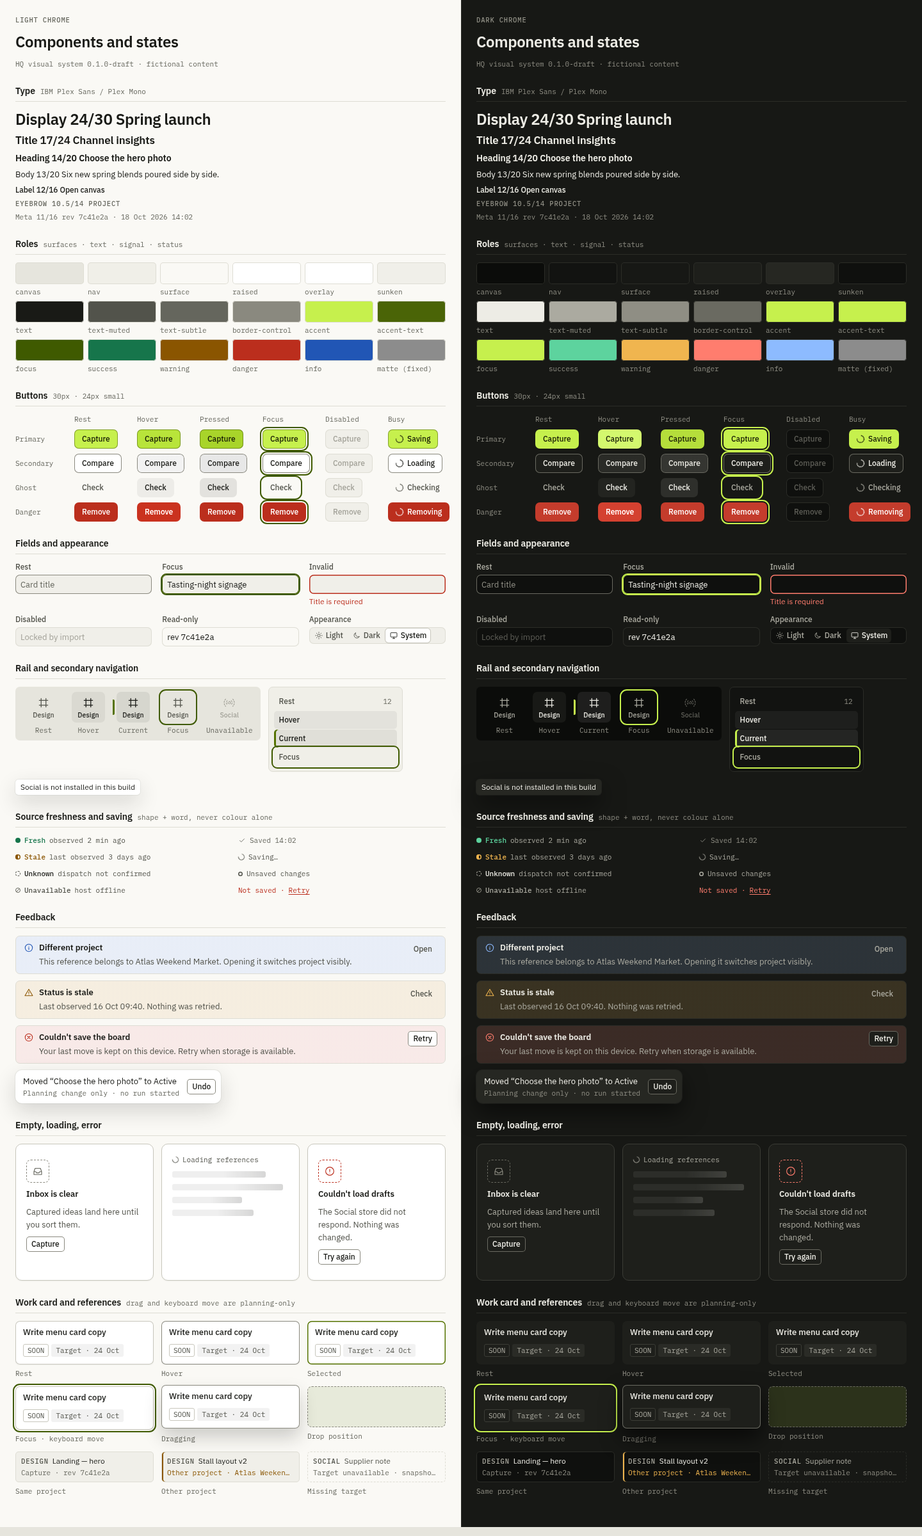
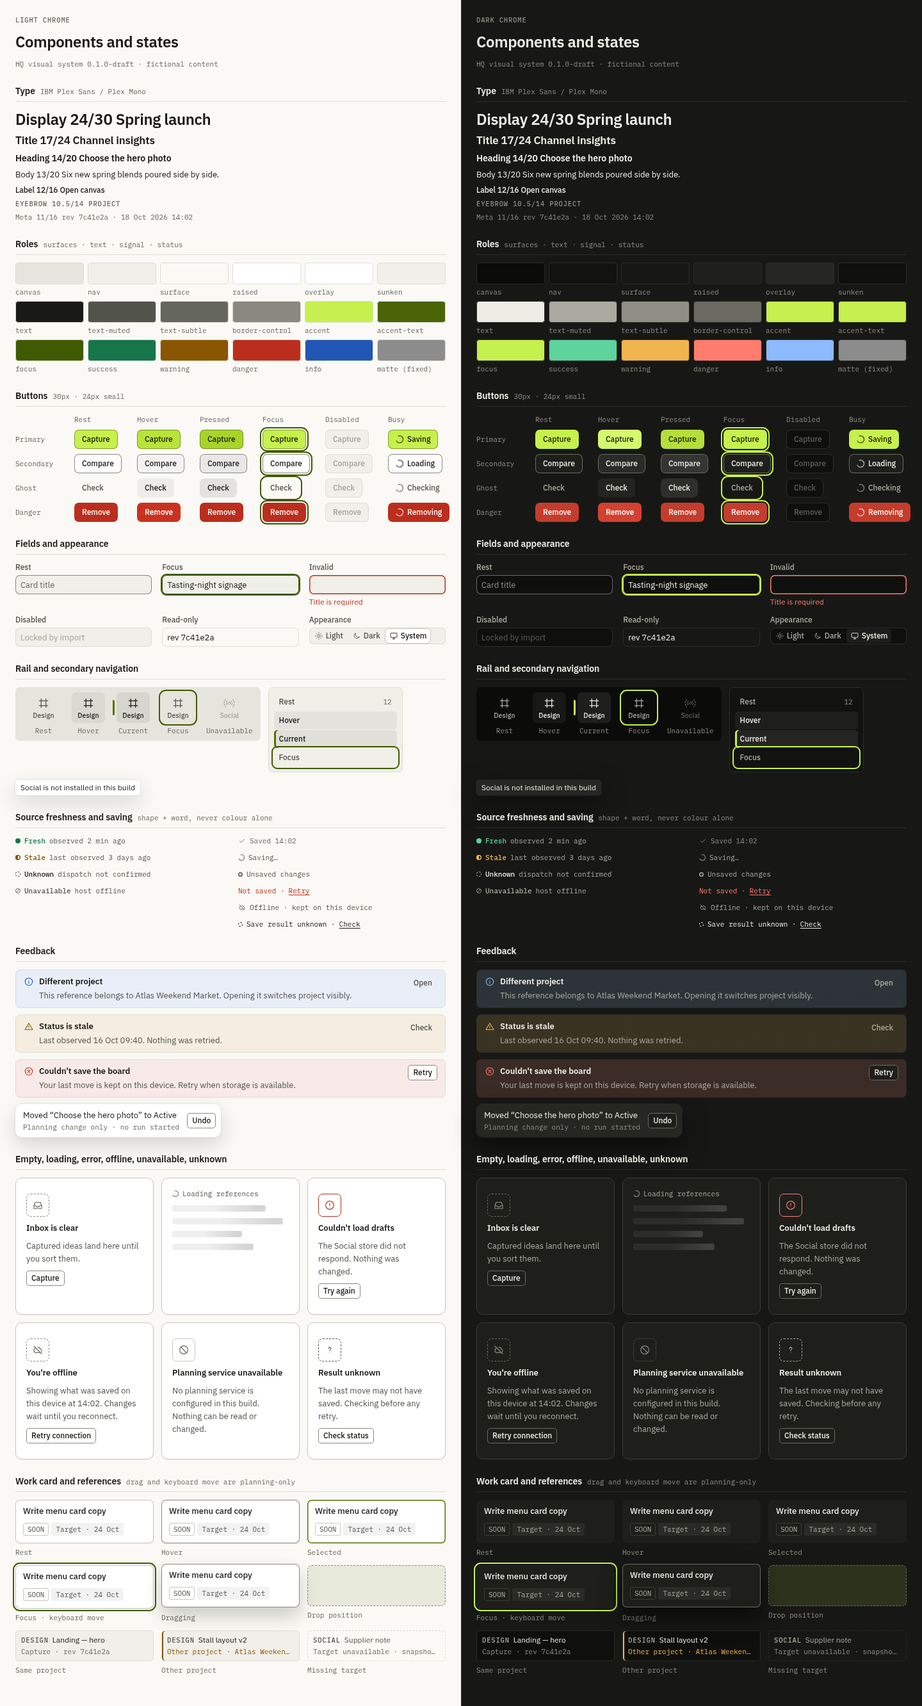
docs: align HQ visual system with the T1 plan's content marker and state sets
The T1 plan candidate (spec.hq-social-work, PR #3) names the captured-content
marker data-hq-content and lists SaveIndicator and StateView states. Rename the
token CSS hook from data-hq-preserve to [data-hq-content] (with
data-hq-matte="checker" for transparency and --hq-content-scheme), and add the
offline/unknown save states and offline/unavailable/unknown state panels to the
reference CSS and states sheet. Evidence re-rendered; token check 104/104 and
pixel checks 13/13 pass.

Changed region(s): [[0.0, 0.0, 1.0, 1.0], [0.4375, 0.5938, 0.4688, 0.6875], [0.9062, 0.4375, 0.9375, 0.4688]]

diff --git a/docs/design/hq-visual-system/mockups/states.html b/docs/design/hq-visual-system/mockups/states.html
@@ -123,6 +123,10 @@
       <span class="hq-save hq-save--unsaved">Unsaved changes</span>
       <span class="hq-fresh hq-fresh--unavailable"><b>Unavailable</b> host offline</span>
       <span class="hq-save hq-save--failed">Not saved · <button>Retry</button></span>
+      <span></span>
+      <span class="hq-save hq-save--offline"><svg viewBox="0 0 24 24"><path d="M4 4l16 16M8 8a5 5 0 0 0-1 9.5h9M12 6.5a5 5 0 0 1 5.5 4 3.5 3.5 0 0 1 2 5.5"/></svg>Offline · kept on this device</span>
+      <span></span>
+      <span class="hq-save hq-save--unknown">Save result unknown · <button>Check</button></span>
     </div>
   </section>
 
@@ -137,11 +141,14 @@
   </section>
 
   <section class="sheet-section">
-    <header><span class="hq-heading">Empty, loading, error</span></header>
+    <header><span class="hq-heading">Empty, loading, error, offline, unavailable, unknown</span></header>
     <div class="sheet-grid" style="grid-template-columns:repeat(3,minmax(0,1fr));gap:12px;align-items:stretch">
       <section class="hq-panel"><div class="hq-empty"><span class="hq-empty-glyph"><svg viewBox="0 0 24 24"><path d="M4 13h4l1.5 2.5h5L16 13h4M4 13l2.5-7h11L20 13v6H4z"/></svg></span><strong>Inbox is clear</strong><p>Captured ideas land here until you sort them.</p><button class="hq-btn hq-btn--secondary hq-btn--sm">Capture</button></div></section>
       <section class="hq-panel" aria-busy="true"><div class="hq-panel-body" style="display:grid;gap:10px"><span class="hq-save hq-save--saving"><span class="hq-spinner"></span>Loading references</span><span class="hq-skeleton" style="width:80%"></span><span class="hq-skeleton" style="width:95%"></span><span class="hq-skeleton" style="width:60%"></span><span class="hq-skeleton" style="width:70%"></span></div></section>
-      <section class="hq-panel"><div class="hq-empty"><span class="hq-empty-glyph" style="border-color:var(--hq-danger);color:var(--hq-danger)"><svg viewBox="0 0 24 24"><circle cx="12" cy="12" r="8.5"/><path d="M12 8v5M12 16h.01"/></svg></span><strong>Couldn't load drafts</strong><p>The Social store did not respond. Nothing was changed.</p><button class="hq-btn hq-btn--secondary hq-btn--sm">Try again</button></div></section>
+      <section class="hq-panel"><div class="hq-empty"><span class="hq-empty-glyph hq-empty-glyph--danger"><svg viewBox="0 0 24 24"><circle cx="12" cy="12" r="8.5"/><path d="M12 8v5M12 16h.01"/></svg></span><strong>Couldn't load drafts</strong><p>The Social store did not respond. Nothing was changed.</p><button class="hq-btn hq-btn--secondary hq-btn--sm">Try again</button></div></section>
+      <section class="hq-panel"><div class="hq-empty"><span class="hq-empty-glyph"><svg viewBox="0 0 24 24"><path d="M4 4l16 16M8 8a5 5 0 0 0-1 9.5h9M12 6.5a5 5 0 0 1 5.5 4 3.5 3.5 0 0 1 2 5.5"/></svg></span><strong>You're offline</strong><p>Showing what was saved on this device at 14:02. Changes wait until you reconnect.</p><button class="hq-btn hq-btn--secondary hq-btn--sm">Retry connection</button></div></section>
+      <section class="hq-panel"><div class="hq-empty"><span class="hq-empty-glyph hq-empty-glyph--unavailable"><svg viewBox="0 0 24 24"><circle cx="12" cy="12" r="8.5"/><path d="m6 6 12 12"/></svg></span><strong>Planning service unavailable</strong><p>No planning service is configured in this build. Nothing can be read or changed.</p></div></section>
+      <section class="hq-panel"><div class="hq-empty"><span class="hq-empty-glyph hq-empty-glyph--unknown"><svg viewBox="0 0 24 24"><path d="M9.5 9a2.5 2.5 0 1 1 3.5 2.3c-.6.3-1 .9-1 1.6v.6M12 17h.01"/></svg></span><strong>Result unknown</strong><p>The last move may not have saved. Checking before any retry.</p><button class="hq-btn hq-btn--secondary hq-btn--sm">Check status</button></div></section>
     </div>
   </section>
 

diff --git a/docs/design/hq-visual-system/mockups/artwork.html b/docs/design/hq-visual-system/mockups/artwork.html
@@ -9,7 +9,7 @@
   <link rel="stylesheet" href="../components/hq-components.css">
   <style>
     /* 1:1 display from the capture's top-left corner: no resampling, so pixels can be compared with the source. */
-    .hq-well > [data-hq-preserve].at-1x > img { width: 100%; height: 100%; max-width: none; object-fit: none; object-position: 0 0; }
+    .hq-well > [data-hq-content].at-1x > img { width: 100%; height: 100%; max-width: none; object-fit: none; object-position: 0 0; }
   </style>
 </head>
 <!-- Evidence page: identical artwork inside light and dark chrome. Landing captures are shown 1:1 (no resampling) so
@@ -27,16 +27,16 @@
     <p class="hq-muted" style="margin:0">Chrome follows Light/Dark/System. Captures, exports and artwork sit on a fixed matte and are never filtered, blended or re-themed.</p>
   </header>
   <figure class="hq-well">
-    <div data-hq-preserve data-evidence="well-light" class="at-1x" style="--hq-preserve-scheme: light; height: 420px"><img src="assets/larkspur-landing-light.png" alt="Fictional landing page, light capture, shown at 1:1 from its top-left corner" width="1440" height="900"></div>
+    <div data-hq-content="captured" data-evidence="well-light" class="at-1x" style="--hq-content-scheme: light; height: 420px"><img src="assets/larkspur-landing-light.png" alt="Fictional landing page, light capture, shown at 1:1 from its top-left corner" width="1440" height="900"></div>
     <figcaption><span class="hq-heading">Landing — hero</span><span class="hq-chip">LIGHT</span><span class="hq-chip">1:1</span><span class="hq-meta">rev 7c41e2a</span></figcaption>
   </figure>
   <div style="display:grid;grid-template-columns:1fr 1fr;gap:16px">
     <figure class="hq-well">
-      <div data-hq-preserve data-evidence="well-dark" class="at-1x" style="--hq-preserve-scheme: dark; height: 205px"><img src="assets/larkspur-landing-dark.png" alt="Fictional landing page, dark capture, shown at 1:1 from its top-left corner" width="1440" height="900"></div>
+      <div data-hq-content="captured" data-evidence="well-dark" class="at-1x" style="--hq-content-scheme: dark; height: 205px"><img src="assets/larkspur-landing-dark.png" alt="Fictional landing page, dark capture, shown at 1:1 from its top-left corner" width="1440" height="900"></div>
       <figcaption><span class="hq-heading">Dark variant</span><span class="hq-chip">DARK</span><span class="hq-chip">1:1</span></figcaption>
     </figure>
     <figure class="hq-well">
-      <div data-hq-preserve="transparent" data-evidence="well-mark" style="aspect-ratio: 16/10"><img src="assets/larkspur-mark.png" alt="Fictional leaf mark with transparency" width="512" height="512" style="width:46%"></div>
+      <div data-hq-content="captured" data-hq-matte="checker" data-evidence="well-mark" style="aspect-ratio: 16/10"><img src="assets/larkspur-mark.png" alt="Fictional leaf mark with transparency" width="512" height="512" style="width:46%"></div>
       <figcaption><span class="hq-heading">Mark</span><span class="hq-chip">ALPHA</span></figcaption>
     </figure>
   </div>

diff --git a/docs/design/hq-visual-system/components/hq-components.css b/docs/design/hq-visual-system/components/hq-components.css
@@ -268,7 +268,10 @@ button { cursor: pointer; }
 .hq-save--unsaved { color: var(--hq-text-muted); }
 .hq-save--unsaved::before { content: ""; width: 7px; height: 7px; border-radius: 50%; box-shadow: inset 0 0 0 1.5px currentColor; }
 .hq-save--failed { color: var(--hq-danger); }
-.hq-save--failed button { border: 0; background: none; padding: 0; color: inherit; font: inherit; text-decoration: underline; text-underline-offset: 2px; }
+.hq-save--offline { color: var(--hq-text-muted); }
+.hq-save--unknown { color: var(--hq-text); }
+.hq-save--unknown::before { content: ""; width: 7px; height: 7px; border-radius: 50%; border: 1.5px dashed currentColor; }
+.hq-save--failed button, .hq-save--unknown button { border: 0; background: none; padding: 0; color: inherit; font: inherit; text-decoration: underline; text-underline-offset: 2px; }
 
 /* ---------- Banners, toasts, tooltip ---------- */
 .hq-banner {
@@ -310,6 +313,9 @@ button { cursor: pointer; }
   border: 1px dashed var(--hq-border-control); color: var(--hq-text-subtle);
 }
 .hq-empty-glyph svg { width: 18px; height: 18px; fill: none; stroke: currentColor; stroke-width: 1.5; stroke-linecap: round; stroke-linejoin: round; }
+.hq-empty-glyph--danger { border-style: solid; border-color: var(--hq-danger); color: var(--hq-danger); }
+.hq-empty-glyph--unknown { border-color: var(--hq-text-muted); color: var(--hq-text-muted); }
+.hq-empty-glyph--unavailable { border-style: solid; border-color: var(--hq-border-strong); color: var(--hq-text-subtle); }
 .hq-empty p { margin: 0; color: var(--hq-text-muted); max-width: 44ch; }
 .hq-skeleton { display: block; height: 10px; border-radius: var(--hq-radius-xs); background: var(--hq-skeleton); position: relative; overflow: hidden; }
 .hq-skeleton::after {
@@ -329,8 +335,8 @@ button { cursor: pointer; }
 
 /* ---------- Preserved artwork well ---------- */
 .hq-well { display: grid; gap: var(--hq-space-xs); margin: 0; }
-.hq-well > [data-hq-preserve] { border-radius: var(--hq-radius-sm); overflow: hidden; box-shadow: 0 0 0 1px var(--hq-border-strong); display: grid; place-items: center; }
-.hq-well > [data-hq-preserve] > img { max-width: 100%; height: auto; }
+.hq-well > [data-hq-content] { border-radius: var(--hq-radius-sm); overflow: hidden; box-shadow: 0 0 0 1px var(--hq-border-strong); display: grid; place-items: center; }
+.hq-well > [data-hq-content] > img { max-width: 100%; height: auto; }
 .hq-well figcaption { display: flex; align-items: center; gap: var(--hq-space-sm); flex-wrap: wrap; min-width: 0; }
 .hq-well figcaption .hq-heading { font-size: 13px; }
 

diff --git a/docs/design/hq-visual-system/mockups/design.html b/docs/design/hq-visual-system/mockups/design.html
@@ -56,16 +56,16 @@
     </div>
     <div class="mock-design-grid">
       <figure class="hq-well">
-        <div data-hq-preserve style="--hq-preserve-scheme: light" data-evidence="well-light"><img src="assets/larkspur-landing-light.png" alt="Fictional Larkspur Tea landing page, light variant" width="1440" height="900"></div>
+        <div data-hq-content="captured" style="--hq-content-scheme: light" data-evidence="well-light"><img src="assets/larkspur-landing-light.png" alt="Fictional Larkspur Tea landing page, light variant" width="1440" height="900"></div>
         <figcaption><span class="hq-heading">Landing — hero</span><span class="hq-chip">LIGHT</span><span class="hq-chip">1440×900</span><span class="hq-meta">rev 7c41e2a · 18 Oct 14:02</span></figcaption>
       </figure>
       <div class="mock-design-side">
         <figure class="hq-well">
-          <div data-hq-preserve style="--hq-preserve-scheme: dark" data-evidence="well-dark"><img src="assets/larkspur-landing-dark.png" alt="Fictional Larkspur Tea landing page, dark variant" width="1440" height="900"></div>
+          <div data-hq-content="captured" style="--hq-content-scheme: dark" data-evidence="well-dark"><img src="assets/larkspur-landing-dark.png" alt="Fictional Larkspur Tea landing page, dark variant" width="1440" height="900"></div>
           <figcaption><span class="hq-heading">Landing — dark variant</span><span class="hq-chip">DARK</span><span class="hq-meta">rev 7c41e2a</span></figcaption>
         </figure>
         <figure class="hq-well mock-mark">
-          <div data-hq-preserve="transparent" data-evidence="well-mark"><img src="assets/larkspur-mark.png" alt="Fictional Larkspur leaf mark on transparency grid" width="512" height="512"></div>
+          <div data-hq-content="captured" data-hq-matte="checker" data-evidence="well-mark"><img src="assets/larkspur-mark.png" alt="Fictional Larkspur leaf mark on transparency grid" width="512" height="512"></div>
           <figcaption><span class="hq-heading">Mark</span><span class="hq-chip">PNG · ALPHA</span><span class="hq-meta">rev 2f90b11</span></figcaption>
         </figure>
       </div>

diff --git a/docs/design/hq-visual-system/tokens/hq-tokens.css b/docs/design/hq-visual-system/tokens/hq-tokens.css
@@ -188,21 +188,22 @@
   :root { --hq-duration-fast: 0ms; --hq-duration-base: 0ms; --hq-duration-slow: 0ms; }
 }
 
-/* Preserved content: captured screenshots, exported evidence, artwork and producer previews.
-   Chrome theme must not reach these pixels. The owner sets --hq-preserve-scheme from the content's recorded
-   theme (light | dark); the default 'normal' keeps the HQ chrome theme from reaching an embedded document. */
-[data-hq-preserve] {
-  color-scheme: var(--hq-preserve-scheme, normal);
+/* Preserved content (spec RS-2 marker data-hq-content="captured" | "producer" | "export"): captured screenshots,
+   exported evidence, artwork and producer previews. Chrome theme must not reach these pixels. The owner sets
+   --hq-content-scheme from the content's recorded theme (light | dark); the default 'normal' keeps the HQ chrome
+   theme from reaching an embedded document. data-hq-matte="checker" shows transparency on a fixed grid. */
+[data-hq-content] {
+  color-scheme: var(--hq-content-scheme, normal);
   background: var(--hq-artwork-matte);
   forced-color-adjust: none;
   filter: none;
   mix-blend-mode: normal;
   opacity: 1;
 }
-[data-hq-preserve] > img, [data-hq-preserve] > iframe, [data-hq-preserve] > canvas, [data-hq-preserve] > video {
+[data-hq-content] > img, [data-hq-content] > iframe, [data-hq-content] > canvas, [data-hq-content] > video {
   display: block; filter: none; mix-blend-mode: normal; opacity: 1;
 }
-[data-hq-preserve="transparent"] {
+[data-hq-content][data-hq-matte="checker"] {
   background-color: var(--hq-artwork-checker-b);
   background-image: conic-gradient(var(--hq-artwork-checker-a) 25%, var(--hq-artwork-checker-b) 0 50%, var(--hq-artwork-checker-a) 0 75%, var(--hq-artwork-checker-b) 0);
   background-size: calc(2 * var(--hq-artwork-checker-size)) calc(2 * var(--hq-artwork-checker-size));

diff --git a/docs/design/hq-visual-system/mockups/_mockup.css b/docs/design/hq-visual-system/mockups/_mockup.css
@@ -10,8 +10,8 @@
 /* Design (illustrative landing) */
 .mock-design-grid { display: grid; grid-template-columns: minmax(0, 2fr) minmax(0, 1fr); gap: var(--hq-space-xl); align-items: start; }
 .mock-design-side { display: grid; gap: var(--hq-space-xl); }
-.mock-design-grid [data-hq-preserve] { aspect-ratio: 16 / 10; }
-.mock-design-side .mock-mark [data-hq-preserve] { aspect-ratio: 16 / 9; }
+.mock-design-grid [data-hq-content] { aspect-ratio: 16 / 10; }
+.mock-design-side .mock-mark [data-hq-content] { aspect-ratio: 16 / 9; }
 .mock-design-side .mock-mark img { width: 34%; }
 @media (max-width: 959px) { .mock-design-grid { grid-template-columns: minmax(0, 1fr); } .mock-design-side { grid-template-columns: 1fr 1fr; } }
 

diff --git a/docs/design/hq-visual-system/tools/hq_tokens.py b/docs/design/hq-visual-system/tools/hq_tokens.py
@@ -166,21 +166,22 @@ def css(data: dict) -> str:
         f"  :root {{ --{p}-duration-fast: 0ms; --{p}-duration-base: 0ms; --{p}-duration-slow: 0ms; }}",
         "}",
         "",
-        "/* Preserved content: captured screenshots, exported evidence, artwork and producer previews.",
-        "   Chrome theme must not reach these pixels. The owner sets --hq-preserve-scheme from the content's recorded",
-        "   theme (light | dark); the default 'normal' keeps the HQ chrome theme from reaching an embedded document. */",
-        "[data-hq-preserve] {",
-        f"  color-scheme: var(--{p}-preserve-scheme, normal);",
+        "/* Preserved content (spec RS-2 marker data-hq-content=\"captured\" | \"producer\" | \"export\"): captured screenshots,",
+        "   exported evidence, artwork and producer previews. Chrome theme must not reach these pixels. The owner sets",
+        "   --hq-content-scheme from the content's recorded theme (light | dark); the default 'normal' keeps the HQ chrome",
+        "   theme from reaching an embedded document. data-hq-matte=\"checker\" shows transparency on a fixed grid. */",
+        "[data-hq-content] {",
+        f"  color-scheme: var(--{p}-content-scheme, normal);",
         f"  background: var(--{p}-artwork-matte);",
         "  forced-color-adjust: none;",
         "  filter: none;",
         "  mix-blend-mode: normal;",
         "  opacity: 1;",
         "}",
-        "[data-hq-preserve] > img, [data-hq-preserve] > iframe, [data-hq-preserve] > canvas, [data-hq-preserve] > video {",
+        "[data-hq-content] > img, [data-hq-content] > iframe, [data-hq-content] > canvas, [data-hq-content] > video {",
         "  display: block; filter: none; mix-blend-mode: normal; opacity: 1;",
         "}",
-        "[data-hq-preserve=\"transparent\"] {",
+        "[data-hq-content][data-hq-matte=\"checker\"] {",
         f"  background-color: var(--{p}-artwork-checker-b);",
         f"  background-image: conic-gradient(var(--{p}-artwork-checker-a) 25%, var(--{p}-artwork-checker-b) 0 50%, var(--{p}-artwork-checker-a) 0 75%, var(--{p}-artwork-checker-b) 0);",
         f"  background-size: calc(2 * var(--{p}-artwork-checker-size)) calc(2 * var(--{p}-artwork-checker-size));",

diff --git a/docs/design/hq-visual-system/README.md b/docs/design/hq-visual-system/README.md
@@ -44,20 +44,20 @@ The window is a **bezel and a sheet**. The titlebar and rail sit on a quiet canv
 - **Fields**: rest, focus, invalid with message, disabled, read-only. **Appearance** radio group.
 - **Rail items**: rest, hover, current, focus, unavailable. **Nav items**: rest, hover, current, focus. Tooltip.
 - **Source freshness**: fresh, stale, unknown (dispatch not confirmed), unavailable.
-- **Saving**: saved, saving, unsaved, failed with retry. Saving is local persistence only, never execution.
+- **Saving** (SaveIndicator in the T1 plan's RS-3): saved, saving, unsaved, failed with retry, offline (kept on this device), unknown result with check. Saving is local persistence only, never execution.
 - **Feedback**: info (different project), warning (stale), danger (save failed) banners; undo toast.
-- **Panels**: empty, loading skeleton, error.
+- **Panels** (StateView in RS-3): empty, loading skeleton, error, offline, unavailable, unknown.
 - **Work card**: rest, hover, selected, focus, dragging, drop position. **References**: same project, other project (worded, plus a warning edge), missing target (dashed border, readable snapshot kept).
 
 ## Integration note
 
-These are proposals for the owners named below. This lane edits only `docs/design/hq-visual-system/`.
+These are proposals for the owners named below. This lane edits only `docs/design/hq-visual-system/`. The T1 plan candidate (`spec.hq-social-work`, PR #3, unmerged) gives final role values to this artifact (RS-1); the marker and state names below follow its RS-2 and RS-3.
 
 1. **Tokens (foundation owner).** Load `tokens/hq-tokens.css`, then `tokens/t0-bridge.css`, and remove the palette blocks from `apps/desktop/src/styles.css`. T0 already writes the resolved theme to `<html data-theme="light|dark">`, which is the selector the tokens use. Before React mounts, `:root { color-scheme: light dark }` follows the OS, so System renders correctly on first paint. Colour roles are `light-dark()` pairs, so a `[data-theme]` subtree resolves its own scheme. Shadows switch through explicit blocks because `light-dark()` only accepts colours.
 2. **Fonts (foundation owner).** Bundle IBM Plex Sans 400/500/600 and Plex Mono 400/500 (SIL OFL 1.1) as local woff2, which the CSP's `font-src 'self'` allows. The mockups load them from Google Fonts for preview only. The fallback stack (`system-ui` / `ui-monospace`) keeps the layout intact but loses the mono/sans contrast that carries provenance.
 3. **Window (foundation owner).** Replace the fixed `backgroundColor: '#17191d'` with the canvas colour for the resolved theme (`#E6E5DD` light, `#0B0C0A` dark) so a light launch doesn't flash dark. If the titlebar layout is adopted, use `titleBarStyle: 'hiddenInset'` on macOS with `-webkit-app-region: drag` on `.hq-titlebar` and `no-drag` on its controls.
 4. **Shell chrome (HQ shell owner).** Move the appearance choice from the rail footer `<select>` to the titlebar radio group, which becomes a menu button below 960px. Show project context in the titlebar. Keep `aria-current="page"` on the current rail item; render T0's unavailable Social/Work slots as `aria-disabled` items ([evidence](evidence/design-dark-t0-slots-1280.png)).
-5. **Preserved content (Design and every module that shows captures).** Wrap captures, exports, artwork and producer previews in `[data-hq-preserve]` (or `="transparent"` for a fixed checkerboard). Set `--hq-preserve-scheme` to the content's *recorded* theme through CSSOM (`el.style.setProperty`), since the CSP `style-src 'self'` blocks inline style attributes. A local probe in Chromium 155 found that an iframe's `prefers-color-scheme` follows the owner element's used `color-scheme`, not the OS. An SVG used as an `<img>` follows it too. Without this pin, switching HQ to Dark would silently re-theme a light preview. Never apply filter, blend mode or opacity to preserved content, and keep the matte constant.
+5. **Preserved content (Design and every module that shows captures).** Mark captures, exports, artwork and producer previews with the RS-2 marker `data-hq-content="captured"` (or `"producer"` / `"export"`; add `data-hq-matte="checker"` for a fixed transparency grid). The token CSS styles any `[data-hq-content]`. Set `--hq-content-scheme` to the content's *recorded* theme through CSSOM (`el.style.setProperty`), since the CSP `style-src 'self'` blocks inline style attributes. A local probe in Chromium 155 found that an iframe's `prefers-color-scheme` follows the owner element's used `color-scheme`, not the OS. An SVG used as an `<img>` follows it too. Without this pin, switching HQ to Dark would silently re-theme a light preview. Never apply filter, blend mode or opacity to preserved content, and keep the matte constant.
 6. **Module chrome (all domains).** Use `--hq-*` roles for chrome only. Domain-specific colours (for example, Work's Manual Planner status hues) stay domain-owned under `--design-*`, `--social-*` or `--work-*` prefixes. Pair every status colour with a word and a shape.
 7. **Records stay distinct (Work, Design, Social).** Reference blocks name the owning domain in a mono eyebrow, a title snapshot, and kind/revision or "Other project · …". Execution records use the same block with a freshness line ("Running · observed 4 min ago", "Unknown · host unreachable 13:20"). Card moves confirm "Planning change only · no run started" with Undo.
 

diff --git a/docs/design/hq-visual-system/work-note.md b/docs/design/hq-visual-system/work-note.md
@@ -31,7 +31,8 @@ Sources read (read-only):
[2 lines of base64/hex data omitted]
 - T0 foundation candidate (read back, not accepted or frozen): PR #2, `origin/work/hq-foundation` at `33dfe44d6786b40ac8a5dcb5442d85c20da38c67`. Facts used: `<html data-theme>` receives the *resolved* theme; `ModulePort.appearance` is resolved; window minimum 760×560 with a fixed `backgroundColor` of `#17191d`; CSP `style-src 'self'`, `font-src 'self'`, `img-src 'self' data:`, `frame-src 'none'`; current palette variable names.
-- T1 plan candidate: PR #3, `origin/work/hq-social-work-plan` at `118d3c6`. No path overlap with this lane.
+- T1 plan candidate: PR #3, `origin/work/hq-social-work-plan` at `118d3c6`, unmerged, not edited. No path overlap with this lane. RS-1 takes its final role values from this artifact; to match, this lane adopted RS-2's `data-hq-content` marker and drew RS-3's SaveIndicator and StateView state sets.
+- Sibling Social mockup lane: PR #9 (`docs/design/social/**`) owns Social page design. This lane's `social.html` illustrates chrome only.
 - Design shell boundary `spec.design-studio#iface.hq-shell.001` (Design lane worktree, uncommitted) and the published Design PRD on `work/hq-design-plan` (`149d843`). Used only to name illustrative Design sections; no Design feature or canvas design is proposed.
 - Manual Planner public CSS at Codex V3 HEAD `4beb491c`. Its status, horizon and date-kind axes informed the Work mockup; no files or values were copied.
 
